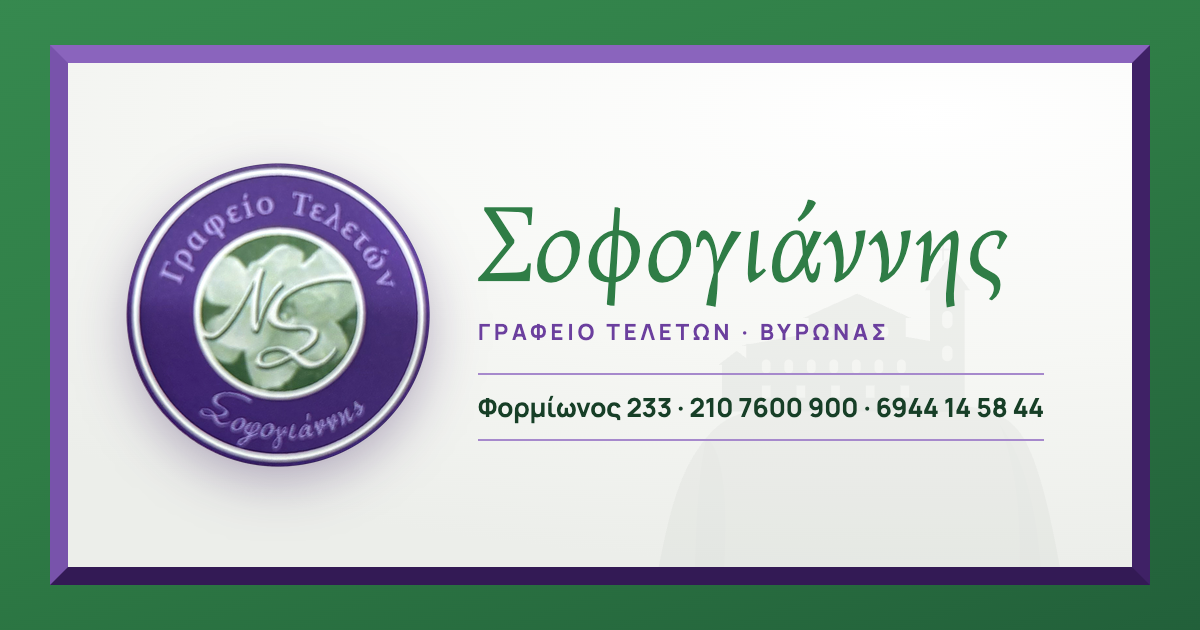
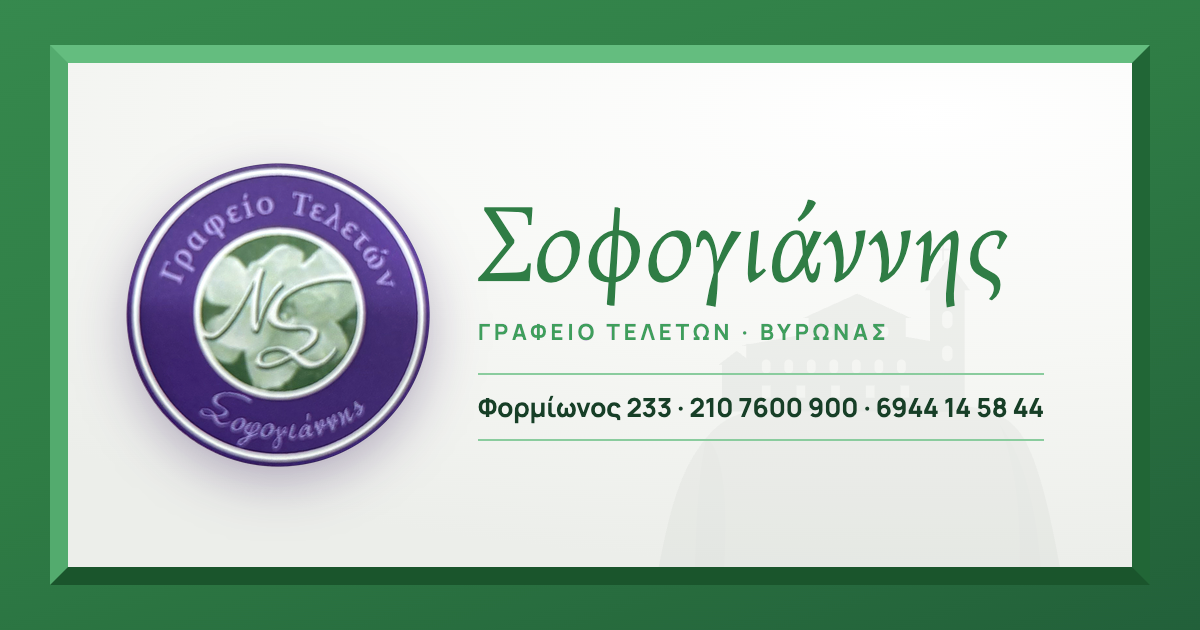
Όλα τα μωβ στοιχεία του θέματος σε πράσινο (κορνίζες, κουμπιά, λεζάντες, og-image) — το λογότυπο μένει ως έχει

diff --git a/css/style.css b/css/style.css
@@ -4,11 +4,11 @@
   --green-d: #22603a;
   --green-dd: #173f27;
   --green-l: #e7f1e9;
-  --purple: #6b3f9e;
-  --purple-d: #4e2a78;
-  --purple-dd: #36195a;
-  --purple-l: #a689cc;
-  --lilac: #f3eef9;
+  --purple: #3b8c55;
+  --purple-d: #276b3f;
+  --purple-dd: #184a2b;
+  --purple-l: #8cc39d;
+  --lilac: #eef6f0;
   --paper: #f6f7f4;
   --silver: #eceeea;
   --ink: #1d261f;
@@ -51,7 +51,7 @@ p { margin: 0 0 1.1em; }
 .btn:hover { transform: translateY(-1px); }
 .btn-primary { background: var(--green); color: #fff; box-shadow: 0 8px 20px -10px rgba(47, 125, 70, .8); }
 .btn-primary:hover { background: var(--green-d); }
-.btn-purple { background: var(--purple); color: #fff; box-shadow: 0 8px 20px -10px rgba(107, 63, 158, .8); }
+.btn-purple { background: var(--purple); color: #fff; box-shadow: 0 8px 20px -10px rgba(59, 140, 85, .8); }
 .btn-purple:hover { background: var(--purple-d); }
 .btn-ghost { border-color: var(--green); color: var(--green); background: transparent; }
 .btn-ghost:hover { background: var(--green); color: #fff; }
@@ -63,7 +63,7 @@ p { margin: 0 0 1.1em; }
 .btn-outline-light:hover { background: rgba(255, 255, 255, .12); border-color: #fff; }
 
 /* ---------------------------------------------------------------- topbar & header */
-.topbar { background: var(--purple-d); color: #e9e0f5; font-size: 13.5px; }
+.topbar { background: var(--purple-d); color: #e3f1e7; font-size: 13.5px; }
 .topbar .wrap { display: flex; justify-content: space-between; align-items: center; gap: 16px; min-height: 40px; }
 .topbar a { color: #fff; text-decoration: none; display: inline-flex; align-items: center; gap: 6px; }
 .topbar a:hover { text-decoration: underline; }
@@ -83,7 +83,7 @@ p { margin: 0 0 1.1em; }
 .brand-name { font-family: var(--serif); font-style: italic; font-size: 31px; color: var(--green); letter-spacing: .2px; }
 .brand-sub { font-size: 11.5px; letter-spacing: 1.6px; text-transform: uppercase; color: var(--purple); font-weight: 700; margin-top: 6px; }
 .brand.light .brand-name { color: #fff; }
-.brand.light .brand-sub { color: #cdb8ea; }
+.brand.light .brand-sub { color: #b9dcc3; }
 
 .nav { display: flex; align-items: center; gap: 4px; margin-left: auto; }
 .nav > a, .nav .dd > button {
@@ -124,13 +124,13 @@ p { margin: 0 0 1.1em; }
 
 /* ---------------------------------------------------------------- the card frame (bevel) */
 .bevel {
-  border: 16px solid; border-color: #8a64bd #3f2166 #331a55 #7853ab; /* ανάγλυφη κορνίζα όπως στην κάρτα */
+  border: 16px solid; border-color: #5aa872 #1d5532 #15402a #479a60; /* ανάγλυφη κορνίζα όπως στην κάρτα */
   background: var(--purple); box-shadow: 0 30px 60px -30px rgba(10, 30, 15, .6);
 }
 .panel {
   position: relative; overflow: hidden;
   background: radial-gradient(120% 90% at 80% 10%, #ffffff 0%, var(--paper) 55%, var(--silver) 100%);
-  box-shadow: inset 0 0 0 1px rgba(78, 42, 120, .35);
+  box-shadow: inset 0 0 0 1px rgba(39, 107, 63, .35);
 }
 .panel-art { position: absolute; right: -2%; bottom: -6%; width: min(620px, 62%); opacity: .2; pointer-events: none; filter: grayscale(1); }
 
@@ -151,13 +151,13 @@ p { margin: 0 0 1.1em; }
 .hero .lead { color: #3d4840; font-size: clamp(17px, 1.6vw, 19px); }
 .hero-rows { border-top: 1.5px solid var(--purple-l); border-bottom: 1.5px solid var(--purple-l); margin: 26px 0 28px; max-width: 560px; }
 .hero-rows > * { display: flex; align-items: center; gap: 12px; padding: 12px 4px; color: var(--green-dd); text-decoration: none; font-weight: 600; }
-.hero-rows > * + * { border-top: 1px solid rgba(107, 63, 158, .25); }
+.hero-rows > * + * { border-top: 1px solid rgba(59, 140, 85, .25); }
 .hero-rows svg { width: 20px; height: 20px; color: var(--purple); flex: none; }
 .row-owner span { font-family: var(--serif); font-size: 21px; font-weight: 700; color: var(--green-d); }
 .row-addr:hover span { text-decoration: underline; }
 .hero-actions { display: flex; flex-wrap: wrap; gap: 12px; align-items: center; }
 .hero-seal { display: grid; place-items: center; }
-.hero-seal img { width: min(340px, 100%); height: auto; filter: drop-shadow(0 18px 30px rgba(54, 25, 90, .35)); animation: seal 1.2s cubic-bezier(.2, .7, .2, 1) both; }
+.hero-seal img { width: min(340px, 100%); height: auto; filter: drop-shadow(0 18px 30px rgba(24, 74, 43, .35)); animation: seal 1.2s cubic-bezier(.2, .7, .2, 1) both; }
 @keyframes seal { from { opacity: 0; transform: scale(.85) rotate(-12deg); } to { opacity: 1; transform: none; } }
 
 /* ---------------------------------------------------------------- trust strip */
@@ -168,12 +168,12 @@ p { margin: 0 0 1.1em; }
 .trust-item .ic { width: 46px; height: 46px; border-radius: 50%; border: 1.5px solid rgba(255, 255, 255, .35); display: grid; place-items: center; flex: none; color: #c9f0d3; }
 .trust-item svg { width: 22px; height: 22px; }
 .trust-item strong { display: block; font-size: 15.5px; }
-.trust-item span { font-size: 13.5px; color: #cdbde6; }
+.trust-item span { font-size: 13.5px; color: #bfe0c8; }
 
 /* ---------------------------------------------------------------- sections */
 .section { padding: clamp(64px, 8vw, 110px) 0; }
 .section.alt { background: var(--paper); }
-.section.dark { background: var(--green-dd); color: #e3efe6; background-image: radial-gradient(80% 120% at 100% 0%, rgba(107, 63, 158, .35), transparent 60%); }
+.section.dark { background: var(--green-dd); color: #e3efe6; background-image: radial-gradient(80% 120% at 100% 0%, rgba(59, 140, 85, .35), transparent 60%); }
 .section.dark .lead { color: #bfd6c5; }
 .section-head { display: flex; justify-content: space-between; align-items: flex-end; gap: 30px 60px; margin-bottom: 44px; flex-wrap: wrap; }
 .section-head .lead { margin: 0; }
@@ -221,7 +221,7 @@ p { margin: 0 0 1.1em; }
 /* steps */
 .steps { list-style: none; padding: 0; margin: 0; display: grid; grid-template-columns: repeat(4, 1fr); gap: 22px; counter-reset: s; }
 .step { position: relative; padding: 30px 26px; border: 1px solid rgba(255, 255, 255, .14); border-radius: var(--radius); background: rgba(255, 255, 255, .04); }
-.step .n { display: grid; place-items: center; width: 50px; height: 50px; border-radius: 50%; background: var(--purple); color: #fff; font-family: var(--serif); font-size: 24px; margin-bottom: 18px; box-shadow: 0 0 0 5px rgba(107, 63, 158, .3); }
+.step .n { display: grid; place-items: center; width: 50px; height: 50px; border-radius: 50%; background: var(--purple); color: #fff; font-family: var(--serif); font-size: 24px; margin-bottom: 18px; box-shadow: 0 0 0 5px rgba(59, 140, 85, .3); }
 .step h3 { color: #fff; }
 .step p { color: #bfd6c5; font-size: 15.5px; margin: 0; }
 
@@ -250,13 +250,13 @@ p { margin: 0 0 1.1em; }
 .section.alt + .cta-wrap { background: linear-gradient(var(--paper) 50%, #fff 50%); }
 .cta-band {
   display: grid; grid-template-columns: auto 1fr auto; gap: 34px; align-items: center; padding: clamp(30px, 4vw, 48px) clamp(26px, 4vw, 52px);
-  background: linear-gradient(120deg, var(--purple-d), var(--purple) 60%, #7d52b3); color: #fff; border-radius: 20px; box-shadow: 0 30px 60px -30px rgba(54, 25, 90, .7);
+  background: linear-gradient(120deg, var(--purple-d), var(--purple) 60%, #43955c); color: #fff; border-radius: 20px; box-shadow: 0 30px 60px -30px rgba(24, 74, 43, .7);
   position: relative; overflow: hidden;
 }
 .cta-band::after { content: ""; position: absolute; right: -80px; top: -80px; width: 260px; height: 260px; border-radius: 50%; border: 30px solid rgba(255, 255, 255, .06); }
 .cta-emblem { width: 110px; height: 110px; border-radius: 50%; box-shadow: 0 0 0 6px rgba(255, 255, 255, .15); }
 .cta-band h2 { color: #fff; font-size: clamp(26px, 3vw, 34px); margin-bottom: 8px; }
-.cta-band p { margin: 0; color: #e3d7f3; }
+.cta-band p { margin: 0; color: #d9ecdf; }
 .cta-band .actions { display: flex; flex-direction: column; gap: 10px; position: relative; z-index: 1; }
 
 /* ---------------------------------------------------------------- inner pages */
@@ -330,7 +330,7 @@ p { margin: 0 0 1.1em; }
 /* guide */
 .guide-tabs { display: inline-flex; flex-wrap: wrap; gap: 6px; padding: 6px; border-radius: 999px; background: var(--lilac); margin-bottom: 30px; }
 .guide-tabs button { border: 0; background: none; font: 700 15px var(--sans); padding: 12px 22px; border-radius: 999px; cursor: pointer; color: var(--purple-d); }
-.guide-tabs button[aria-selected="true"] { background: var(--purple); color: #fff; box-shadow: 0 6px 14px -8px rgba(54, 25, 90, .8); }
+.guide-tabs button[aria-selected="true"] { background: var(--purple); color: #fff; box-shadow: 0 6px 14px -8px rgba(24, 74, 43, .8); }
 .timeline { list-style: none; margin: 0 0 40px; padding: 0; position: relative; }
 .timeline::before { content: ""; position: absolute; left: 23px; top: 10px; bottom: 10px; width: 2px; background: linear-gradient(var(--green), var(--purple)); }
 .timeline li { position: relative; display: flex; gap: 22px; padding: 0 0 26px; }
@@ -353,7 +353,7 @@ a.contact-card:hover { box-shadow: var(--shadow); transform: translateY(-2px); b
 .contact-card small { display: block; color: var(--muted); font-size: 13px; font-weight: 600; }
 .contact-card strong { display: block; font-size: 18px; word-break: break-word; }
 .contact-card.accent { background: var(--purple); border-color: var(--purple); color: #fff; }
-.contact-card.accent small { color: #dccdf0; }
+.contact-card.accent small { color: #cfe7d6; }
 .contact-card.accent .ic { background: rgba(255, 255, 255, .15); color: #fff; }
 .office { background: #fff; border-radius: var(--radius); overflow: hidden; border: 1px solid var(--line); box-shadow: var(--shadow); }
 .office .map { border: 0; border-radius: 0; box-shadow: none; aspect-ratio: 21 / 8; }
@@ -382,9 +382,9 @@ a.contact-card:hover { box-shadow: var(--shadow); transform: translateY(-2px); b
 .f-contact li { display: flex; gap: 10px; align-items: flex-start; }
 .f-contact svg { width: 18px; height: 18px; flex: none; margin-top: 4px; color: var(--purple-l); }
 .f-contact strong { color: #fff; }
-.footer-bottom { background: var(--purple-dd); font-size: 13.5px; color: #cdbde6; }
+.footer-bottom { background: var(--purple-dd); font-size: 13.5px; color: #bfe0c8; }
 .footer-bottom .wrap { display: flex; justify-content: space-between; align-items: center; gap: 14px; flex-wrap: wrap; min-height: 58px; padding-top: 12px; padding-bottom: 12px; }
-.footer-bottom .credit { color: #cdbde6; text-decoration: none; margin-left: auto; }
+.footer-bottom .credit { color: #bfe0c8; text-decoration: none; margin-left: auto; }
 .footer-bottom .credit strong { color: #fff; }
 .footer-bottom .credit:hover strong { text-decoration: underline; }
 .call-bar { display: none; }
@@ -479,7 +479,7 @@ a.contact-card:hover { box-shadow: var(--shadow); transform: translateY(-2px); b
 /* πορτρέτο υπευθύνου (αρχική) */
 .portrait { margin: 0; position: relative; max-width: 520px; justify-self: center; width: 100%; }
 .portrait-frame { background: var(--green); padding: clamp(12px, 1.6vw, 18px); border-radius: 4px; box-shadow: 0 30px 60px -30px rgba(10, 30, 15, .6); }
-.portrait-frame img { width: 100%; height: auto; aspect-ratio: 1 / 1; object-fit: cover; object-position: center 30%; border: 10px solid; border-color: #8a64bd #3f2166 #331a55 #7853ab; }
+.portrait-frame img { width: 100%; height: auto; aspect-ratio: 1 / 1; object-fit: cover; object-position: center 30%; border: 10px solid; border-color: #5aa872 #1d5532 #15402a #479a60; }
 .portrait figcaption {
   position: relative; display: flex; align-items: center; gap: 14px; margin: -34px 24px 0; padding: 14px 18px; background: #fff;
   border-radius: 12px; box-shadow: var(--shadow); border-left: 4px solid var(--purple);
@@ -495,7 +495,7 @@ a.contact-card:hover { box-shadow: var(--shadow); transform: translateY(-2px); b
 .hero-bg img { width: 100%; height: 100%; object-fit: cover; object-position: center 38%; }
 .hero::before {
   content: ""; position: absolute; inset: 0; z-index: 1;
-  background: linear-gradient(90deg, rgba(23, 63, 39, .88) 0%, rgba(23, 63, 39, .55) 42%, rgba(54, 25, 90, .12) 75%, rgba(54, 25, 90, .05) 100%);
+  background: linear-gradient(90deg, rgba(23, 63, 39, .88) 0%, rgba(23, 63, 39, .55) 42%, rgba(24, 74, 43, .12) 75%, rgba(24, 74, 43, .05) 100%);
 }
 .hero .wrap { position: relative; z-index: 2; }
 .hero .bevel { max-width: 620px; border-width: 12px; }
@@ -524,7 +524,7 @@ a.contact-card:hover { box-shadow: var(--shadow); transform: translateY(-2px); b
 .hero-bg img { object-position: center 20%; }
 /* hero v3: θολή φωτογραφία στο φόντο + ολόκληρη η πρόσοψη δεξιά */
 .hero-bg img { object-position: center 40%; filter: blur(16px) saturate(1.1); transform: scale(1.12); }
-.hero::before { background: linear-gradient(90deg, rgba(23, 63, 39, .9) 0%, rgba(23, 63, 39, .72) 50%, rgba(54, 25, 90, .55) 100%); }
+.hero::before { background: linear-gradient(90deg, rgba(23, 63, 39, .9) 0%, rgba(23, 63, 39, .72) 50%, rgba(24, 74, 43, .55) 100%); }
 .hero-grid { display: grid; grid-template-columns: minmax(0, 620px) minmax(0, 1fr); gap: clamp(30px, 5vw, 70px); align-items: center; }
 .hero-grid > .bevel { grid-column: 1; grid-row: 1; }
 .hero-shot { grid-column: 2; grid-row: 1; margin: 0; justify-self: center; width: min(100%, 420px); background: #fff; padding: 10px 10px 10px; border-radius: 4px; box-shadow: 0 30px 60px -20px rgba(0, 0, 0, .55); transform: rotate(1.5deg); }
@@ -537,7 +537,7 @@ a.contact-card:hover { box-shadow: var(--shadow); transform: translateY(-2px); b
 
 /* φωτογραφίες μέσα στο κείμενο υπηρεσιών */
 .prose .photo { margin: 30px 0; background: var(--green); padding: 10px; border-radius: 4px; box-shadow: 0 24px 50px -28px rgba(10, 30, 15, .6); }
-.prose .photo img { width: 100%; height: auto; aspect-ratio: 4 / 3; object-fit: cover; border: 6px solid; border-color: #8a64bd #3f2166 #331a55 #7853ab; }
+.prose .photo img { width: 100%; height: auto; aspect-ratio: 4 / 3; object-fit: cover; border: 6px solid; border-color: #5aa872 #1d5532 #15402a #479a60; }
 
 /* carousel φωτογραφιών */
 .carousel { position: relative; margin: 22px 0 34px; }
@@ -545,10 +545,10 @@ a.contact-card:hover { box-shadow: var(--shadow); transform: translateY(-2px); b
 .car-track::-webkit-scrollbar { display: none; }
 .car-track:focus-visible { outline: 3px solid var(--purple-l); }
 .slide { flex: 0 0 calc((100% - 28px) / 3); margin: 0; scroll-snap-align: start; background: var(--green); padding: 6px; border-radius: 4px; }
-.slide img { width: 100%; aspect-ratio: 3 / 4; object-fit: cover; display: block; border: 4px solid; border-color: #8a64bd #3f2166 #331a55 #7853ab; }
+.slide img { width: 100%; aspect-ratio: 3 / 4; object-fit: cover; display: block; border: 4px solid; border-color: #5aa872 #1d5532 #15402a #479a60; }
 .car-btn {
   position: absolute; top: calc(50% - 18px); transform: translateY(-50%); width: 48px; height: 48px; border-radius: 50%; border: 0; cursor: pointer;
-  background: #fff; color: var(--purple); box-shadow: 0 8px 22px -8px rgba(20, 10, 40, .5); display: grid; place-items: center; transition: background .2s, color .2s, opacity .2s;
+  background: #fff; color: var(--purple); box-shadow: 0 8px 22px -8px rgba(10, 30, 15, .5); display: grid; place-items: center; transition: background .2s, color .2s, opacity .2s;
 }
 .car-btn svg { width: 22px; height: 22px; }
 .car-btn:hover { background: var(--purple); color: #fff; }
@@ -595,7 +595,7 @@ a.contact-card:hover { box-shadow: var(--shadow); transform: translateY(-2px); b
 .music:hover .music-player, .music:focus-within .music-player { opacity: 1; transform: none; pointer-events: auto; }
 .music-player iframe { display: block; width: 100%; height: 100%; }
 .music-btn { display: inline-flex; align-items: center; gap: 8px; min-height: 44px; padding: 0 16px 0 14px; border-radius: 999px; border: 0; cursor: pointer;
-  background: var(--purple); color: #fff; font: inherit; font-weight: 700; font-size: 14px; box-shadow: 0 8px 20px -10px rgba(78,42,120,.9); }
+  background: var(--purple); color: #fff; font: inherit; font-weight: 700; font-size: 14px; box-shadow: 0 8px 20px -10px rgba(39, 107, 63,.9); }
 .music-btn:hover { background: var(--purple-d); }
 .music-btn svg { width: 18px; height: 18px; }
 .music-eq { display: none; align-items: flex-end; gap: 2px; height: 14px; }

diff --git a/404.html b/404.html
@@ -30,7 +30,7 @@
   <link rel="preconnect" href="https://fonts.googleapis.com">
   <link rel="preconnect" href="https://fonts.gstatic.com" crossorigin>
   <link href="https://fonts.googleapis.com/css2?family=Bona+Nova:ital,wght@0,400;0,700;1,400&family=Manrope:wght@400;500;600;700&display=swap" rel="stylesheet">
-  <link rel="stylesheet" href="/css/style.css?v=9b2d4b64">
+  <link rel="stylesheet" href="/css/style.css?v=5e1881ba">
   <script>document.documentElement.classList.add("js")</script>
   <script type="application/ld+json">
 {
@@ -350,6 +350,6 @@
   <a class="primary" href="tel:+302107600900"><svg viewBox="0 0 24 24" fill="none" stroke="currentColor" stroke-width="1.6" stroke-linecap="round" stroke-linejoin="round" aria-hidden="true"><path d="M5 3.5h3.2l1.6 4.2-2.1 1.4a11.5 11.5 0 0 0 7.2 7.2l1.4-2.1 4.2 1.6V19a1.8 1.8 0 0 1-2 1.8A16.5 16.5 0 0 1 3.2 5.5 1.8 1.8 0 0 1 5 3.5z"/></svg>210 7600 900</a>
   <a href="tel:+306944145844"><svg viewBox="0 0 24 24" fill="none" stroke="currentColor" stroke-width="1.6" stroke-linecap="round" stroke-linejoin="round" aria-hidden="true"><rect x="6.5" y="2.5" width="11" height="19" rx="2.5"/><path d="M10.5 18.5h3"/></svg>Κινητό</a>
 </div>
-<script src="/js/main.js?v=9b2d4b64" defer></script>
+<script src="/js/main.js?v=5e1881ba" defer></script>
 </body>
 </html>

diff --git a/ekthesiakos-xoros/index.html b/ekthesiakos-xoros/index.html
@@ -30,7 +30,7 @@
   <link rel="preconnect" href="https://fonts.googleapis.com">
   <link rel="preconnect" href="https://fonts.gstatic.com" crossorigin>
   <link href="https://fonts.googleapis.com/css2?family=Bona+Nova:ital,wght@0,400;0,700;1,400&family=Manrope:wght@400;500;600;700&display=swap" rel="stylesheet">
-  <link rel="stylesheet" href="/css/style.css?v=9b2d4b64">
+  <link rel="stylesheet" href="/css/style.css?v=5e1881ba">
   <script>document.documentElement.classList.add("js")</script>
   <script type="application/ld+json">
 {
@@ -495,6 +495,6 @@
   <a class="primary" href="tel:+302107600900"><svg viewBox="0 0 24 24" fill="none" stroke="currentColor" stroke-width="1.6" stroke-linecap="round" stroke-linejoin="round" aria-hidden="true"><path d="M5 3.5h3.2l1.6 4.2-2.1 1.4a11.5 11.5 0 0 0 7.2 7.2l1.4-2.1 4.2 1.6V19a1.8 1.8 0 0 1-2 1.8A16.5 16.5 0 0 1 3.2 5.5 1.8 1.8 0 0 1 5 3.5z"/></svg>210 7600 900</a>
   <a href="tel:+306944145844"><svg viewBox="0 0 24 24" fill="none" stroke="currentColor" stroke-width="1.6" stroke-linecap="round" stroke-linejoin="round" aria-hidden="true"><rect x="6.5" y="2.5" width="11" height="19" rx="2.5"/><path d="M10.5 18.5h3"/></svg>Κινητό</a>
 </div>
-<script src="/js/main.js?v=9b2d4b64" defer></script>
+<script src="/js/main.js?v=5e1881ba" defer></script>
 </body>
 </html>

diff --git a/epikoinonia/index.html b/epikoinonia/index.html
@@ -30,7 +30,7 @@
   <link rel="preconnect" href="https://fonts.googleapis.com">
   <link rel="preconnect" href="https://fonts.gstatic.com" crossorigin>
   <link href="https://fonts.googleapis.com/css2?family=Bona+Nova:ital,wght@0,400;0,700;1,400&family=Manrope:wght@400;500;600;700&display=swap" rel="stylesheet">
-  <link rel="stylesheet" href="/css/style.css?v=9b2d4b64">
+  <link rel="stylesheet" href="/css/style.css?v=5e1881ba">
   <script>document.documentElement.classList.add("js")</script>
   <script type="application/ld+json">
 {
@@ -419,6 +419,6 @@
   <a class="primary" href="tel:+302107600900"><svg viewBox="0 0 24 24" fill="none" stroke="currentColor" stroke-width="1.6" stroke-linecap="round" stroke-linejoin="round" aria-hidden="true"><path d="M5 3.5h3.2l1.6 4.2-2.1 1.4a11.5 11.5 0 0 0 7.2 7.2l1.4-2.1 4.2 1.6V19a1.8 1.8 0 0 1-2 1.8A16.5 16.5 0 0 1 3.2 5.5 1.8 1.8 0 0 1 5 3.5z"/></svg>210 7600 900</a>
   <a href="tel:+306944145844"><svg viewBox="0 0 24 24" fill="none" stroke="currentColor" stroke-width="1.6" stroke-linecap="round" stroke-linejoin="round" aria-hidden="true"><rect x="6.5" y="2.5" width="11" height="19" rx="2.5"/><path d="M10.5 18.5h3"/></svg>Κινητό</a>
 </div>
-<script src="/js/main.js?v=9b2d4b64" defer></script>
+<script src="/js/main.js?v=5e1881ba" defer></script>
 </body>
 </html>

diff --git a/index.html b/index.html
@@ -30,7 +30,7 @@
   <link rel="preconnect" href="https://fonts.googleapis.com">
   <link rel="preconnect" href="https://fonts.gstatic.com" crossorigin>
   <link href="https://fonts.googleapis.com/css2?family=Bona+Nova:ital,wght@0,400;0,700;1,400&family=Manrope:wght@400;500;600;700&display=swap" rel="stylesheet">
-  <link rel="stylesheet" href="/css/style.css?v=9b2d4b64">
+  <link rel="stylesheet" href="/css/style.css?v=5e1881ba">
   <script>document.documentElement.classList.add("js")</script>
   <script type="application/ld+json">
 {
@@ -536,6 +536,6 @@
   <a class="primary" href="tel:+302107600900"><svg viewBox="0 0 24 24" fill="none" stroke="currentColor" stroke-width="1.6" stroke-linecap="round" stroke-linejoin="round" aria-hidden="true"><path d="M5 3.5h3.2l1.6 4.2-2.1 1.4a11.5 11.5 0 0 0 7.2 7.2l1.4-2.1 4.2 1.6V19a1.8 1.8 0 0 1-2 1.8A16.5 16.5 0 0 1 3.2 5.5 1.8 1.8 0 0 1 5 3.5z"/></svg>210 7600 900</a>
   <a href="tel:+306944145844"><svg viewBox="0 0 24 24" fill="none" stroke="currentColor" stroke-width="1.6" stroke-linecap="round" stroke-linejoin="round" aria-hidden="true"><rect x="6.5" y="2.5" width="11" height="19" rx="2.5"/><path d="M10.5 18.5h3"/></svg>Κινητό</a>
 </div>
-<script src="/js/main.js?v=9b2d4b64" defer></script>
+<script src="/js/main.js?v=5e1881ba" defer></script>
 </body>
 </html>

diff --git a/ti-kano-tora/index.html b/ti-kano-tora/index.html
@@ -30,7 +30,7 @@
   <link rel="preconnect" href="https://fonts.googleapis.com">
   <link rel="preconnect" href="https://fonts.gstatic.com" crossorigin>
   <link href="https://fonts.googleapis.com/css2?family=Bona+Nova:ital,wght@0,400;0,700;1,400&family=Manrope:wght@400;500;600;700&display=swap" rel="stylesheet">
-  <link rel="stylesheet" href="/css/style.css?v=9b2d4b64">
+  <link rel="stylesheet" href="/css/style.css?v=5e1881ba">
   <script>document.documentElement.classList.add("js")</script>
   <script type="application/ld+json">
 {
@@ -481,6 +481,6 @@
   <a class="primary" href="tel:+302107600900"><svg viewBox="0 0 24 24" fill="none" stroke="currentColor" stroke-width="1.6" stroke-linecap="round" stroke-linejoin="round" aria-hidden="true"><path d="M5 3.5h3.2l1.6 4.2-2.1 1.4a11.5 11.5 0 0 0 7.2 7.2l1.4-2.1 4.2 1.6V19a1.8 1.8 0 0 1-2 1.8A16.5 16.5 0 0 1 3.2 5.5 1.8 1.8 0 0 1 5 3.5z"/></svg>210 7600 900</a>
   <a href="tel:+306944145844"><svg viewBox="0 0 24 24" fill="none" stroke="currentColor" stroke-width="1.6" stroke-linecap="round" stroke-linejoin="round" aria-hidden="true"><rect x="6.5" y="2.5" width="11" height="19" rx="2.5"/><path d="M10.5 18.5h3"/></svg>Κινητό</a>
 </div>
-<script src="/js/main.js?v=9b2d4b64" defer></script>
+<script src="/js/main.js?v=5e1881ba" defer></script>
 </body>
 </html>

diff --git a/to-grafeio/index.html b/to-grafeio/index.html
@@ -30,7 +30,7 @@
   <link rel="preconnect" href="https://fonts.googleapis.com">
   <link rel="preconnect" href="https://fonts.gstatic.com" crossorigin>
   <link href="https://fonts.googleapis.com/css2?family=Bona+Nova:ital,wght@0,400;0,700;1,400&family=Manrope:wght@400;500;600;700&display=swap" rel="stylesheet">
-  <link rel="stylesheet" href="/css/style.css?v=9b2d4b64">
+  <link rel="stylesheet" href="/css/style.css?v=5e1881ba">
   <script>document.documentElement.classList.add("js")</script>
   <script type="application/ld+json">
 {
@@ -454,6 +454,6 @@
   <a class="primary" href="tel:+302107600900"><svg viewBox="0 0 24 24" fill="none" stroke="currentColor" stroke-width="1.6" stroke-linecap="round" stroke-linejoin="round" aria-hidden="true"><path d="M5 3.5h3.2l1.6 4.2-2.1 1.4a11.5 11.5 0 0 0 7.2 7.2l1.4-2.1 4.2 1.6V19a1.8 1.8 0 0 1-2 1.8A16.5 16.5 0 0 1 3.2 5.5 1.8 1.8 0 0 1 5 3.5z"/></svg>210 7600 900</a>
   <a href="tel:+306944145844"><svg viewBox="0 0 24 24" fill="none" stroke="currentColor" stroke-width="1.6" stroke-linecap="round" stroke-linejoin="round" aria-hidden="true"><rect x="6.5" y="2.5" width="11" height="19" rx="2.5"/><path d="M10.5 18.5h3"/></svg>Κινητό</a>
 </div>
-<script src="/js/main.js?v=9b2d4b64" defer></script>
+<script src="/js/main.js?v=5e1881ba" defer></script>
 </body>
 </html>

diff --git a/ypiresies/anthostolismos/index.html b/ypiresies/anthostolismos/index.html
@@ -30,7 +30,7 @@
   <link rel="preconnect" href="https://fonts.googleapis.com">
   <link rel="preconnect" href="https://fonts.gstatic.com" crossorigin>
   <link href="https://fonts.googleapis.com/css2?family=Bona+Nova:ital,wght@0,400;0,700;1,400&family=Manrope:wght@400;500;600;700&display=swap" rel="stylesheet">
-  <link rel="stylesheet" href="/css/style.css?v=9b2d4b64">
+  <link rel="stylesheet" href="/css/style.css?v=5e1881ba">
   <script>document.documentElement.classList.add("js")</script>
   <script type="application/ld+json">
 {
@@ -508,6 +508,6 @@
   <a class="primary" href="tel:+302107600900"><svg viewBox="0 0 24 24" fill="none" stroke="currentColor" stroke-width="1.6" stroke-linecap="round" stroke-linejoin="round" aria-hidden="true"><path d="M5 3.5h3.2l1.6 4.2-2.1 1.4a11.5 11.5 0 0 0 7.2 7.2l1.4-2.1 4.2 1.6V19a1.8 1.8 0 0 1-2 1.8A16.5 16.5 0 0 1 3.2 5.5 1.8 1.8 0 0 1 5 3.5z"/></svg>210 7600 900</a>
   <a href="tel:+306944145844"><svg viewBox="0 0 24 24" fill="none" stroke="currentColor" stroke-width="1.6" stroke-linecap="round" stroke-linejoin="round" aria-hidden="true"><rect x="6.5" y="2.5" width="11" height="19" rx="2.5"/><path d="M10.5 18.5h3"/></svg>Κινητό</a>
 </div>
-<script src="/js/main.js?v=9b2d4b64" defer></script>
+<script src="/js/main.js?v=5e1881ba" defer></script>
 </body>
 </html>

diff --git a/ypiresies/apotefroseis/index.html b/ypiresies/apotefroseis/index.html
@@ -30,7 +30,7 @@
   <link rel="preconnect" href="https://fonts.googleapis.com">
   <link rel="preconnect" href="https://fonts.gstatic.com" crossorigin>
   <link href="https://fonts.googleapis.com/css2?family=Bona+Nova:ital,wght@0,400;0,700;1,400&family=Manrope:wght@400;500;600;700&display=swap" rel="stylesheet">
-  <link rel="stylesheet" href="/css/style.css?v=9b2d4b64">
+  <link rel="stylesheet" href="/css/style.css?v=5e1881ba">
   <script>document.documentElement.classList.add("js")</script>
   <script type="application/ld+json">
 {
@@ -501,6 +501,6 @@
   <a class="primary" href="tel:+302107600900"><svg viewBox="0 0 24 24" fill="none" stroke="currentColor" stroke-width="1.6" stroke-linecap="round" stroke-linejoin="round" aria-hidden="true"><path d="M5 3.5h3.2l1.6 4.2-2.1 1.4a11.5 11.5 0 0 0 7.2 7.2l1.4-2.1 4.2 1.6V19a1.8 1.8 0 0 1-2 1.8A16.5 16.5 0 0 1 3.2 5.5 1.8 1.8 0 0 1 5 3.5z"/></svg>210 7600 900</a>
   <a href="tel:+306944145844"><svg viewBox="0 0 24 24" fill="none" stroke="currentColor" stroke-width="1.6" stroke-linecap="round" stroke-linejoin="round" aria-hidden="true"><rect x="6.5" y="2.5" width="11" height="19" rx="2.5"/><path d="M10.5 18.5h3"/></svg>Κινητό</a>
 </div>
-<script src="/js/main.js?v=9b2d4b64" defer></script>
+<script src="/js/main.js?v=5e1881ba" defer></script>
 </body>
 </html>

diff --git a/ypiresies/diadikasies/index.html b/ypiresies/diadikasies/index.html
@@ -30,7 +30,7 @@
   <link rel="preconnect" href="https://fonts.googleapis.com">
   <link rel="preconnect" href="https://fonts.gstatic.com" crossorigin>
   <link href="https://fonts.googleapis.com/css2?family=Bona+Nova:ital,wght@0,400;0,700;1,400&family=Manrope:wght@400;500;600;700&display=swap" rel="stylesheet">
-  <link rel="stylesheet" href="/css/style.css?v=9b2d4b64">
+  <link rel="stylesheet" href="/css/style.css?v=5e1881ba">
   <script>document.documentElement.classList.add("js")</script>
   <script type="application/ld+json">
 {
@@ -501,6 +501,6 @@
   <a class="primary" href="tel:+302107600900"><svg viewBox="0 0 24 24" fill="none" stroke="currentColor" stroke-width="1.6" stroke-linecap="round" stroke-linejoin="round" aria-hidden="true"><path d="M5 3.5h3.2l1.6 4.2-2.1 1.4a11.5 11.5 0 0 0 7.2 7.2l1.4-2.1 4.2 1.6V19a1.8 1.8 0 0 1-2 1.8A16.5 16.5 0 0 1 3.2 5.5 1.8 1.8 0 0 1 5 3.5z"/></svg>210 7600 900</a>
   <a href="tel:+306944145844"><svg viewBox="0 0 24 24" fill="none" stroke="currentColor" stroke-width="1.6" stroke-linecap="round" stroke-linejoin="round" aria-hidden="true"><rect x="6.5" y="2.5" width="11" height="19" rx="2.5"/><path d="M10.5 18.5h3"/></svg>Κινητό</a>
 </div>
-<script src="/js/main.js?v=9b2d4b64" defer></script>
+<script src="/js/main.js?v=5e1881ba" defer></script>
 </body>
 </html>

diff --git a/ypiresies/index.html b/ypiresies/index.html
@@ -30,7 +30,7 @@
   <link rel="preconnect" href="https://fonts.googleapis.com">
   <link rel="preconnect" href="https://fonts.gstatic.com" crossorigin>
   <link href="https://fonts.googleapis.com/css2?family=Bona+Nova:ital,wght@0,400;0,700;1,400&family=Manrope:wght@400;500;600;700&display=swap" rel="stylesheet">
-  <link rel="stylesheet" href="/css/style.css?v=9b2d4b64">
+  <link rel="stylesheet" href="/css/style.css?v=5e1881ba">
   <script>document.documentElement.classList.add("js")</script>
   <script type="application/ld+json">
 {
@@ -484,6 +484,6 @@
   <a class="primary" href="tel:+302107600900"><svg viewBox="0 0 24 24" fill="none" stroke="currentColor" stroke-width="1.6" stroke-linecap="round" stroke-linejoin="round" aria-hidden="true"><path d="M5 3.5h3.2l1.6 4.2-2.1 1.4a11.5 11.5 0 0 0 7.2 7.2l1.4-2.1 4.2 1.6V19a1.8 1.8 0 0 1-2 1.8A16.5 16.5 0 0 1 3.2 5.5 1.8 1.8 0 0 1 5 3.5z"/></svg>210 7600 900</a>
   <a href="tel:+306944145844"><svg viewBox="0 0 24 24" fill="none" stroke="currentColor" stroke-width="1.6" stroke-linecap="round" stroke-linejoin="round" aria-hidden="true"><rect x="6.5" y="2.5" width="11" height="19" rx="2.5"/><path d="M10.5 18.5h3"/></svg>Κινητό</a>
 </div>
-<script src="/js/main.js?v=9b2d4b64" defer></script>
+<script src="/js/main.js?v=5e1881ba" defer></script>
 </body>
 </html>

diff --git a/ypiresies/kideies/index.html b/ypiresies/kideies/index.html
@@ -30,7 +30,7 @@
   <link rel="preconnect" href="https://fonts.googleapis.com">
   <link rel="preconnect" href="https://fonts.gstatic.com" crossorigin>
   <link href="https://fonts.googleapis.com/css2?family=Bona+Nova:ital,wght@0,400;0,700;1,400&family=Manrope:wght@400;500;600;700&display=swap" rel="stylesheet">
-  <link rel="stylesheet" href="/css/style.css?v=9b2d4b64">
+  <link rel="stylesheet" href="/css/style.css?v=5e1881ba">
   <script>document.documentElement.classList.add("js")</script>
   <script type="application/ld+json">
 {
@@ -511,6 +511,6 @@
   <a class="primary" href="tel:+302107600900"><svg viewBox="0 0 24 24" fill="none" stroke="currentColor" stroke-width="1.6" stroke-linecap="round" stroke-linejoin="round" aria-hidden="true"><path d="M5 3.5h3.2l1.6 4.2-2.1 1.4a11.5 11.5 0 0 0 7.2 7.2l1.4-2.1 4.2 1.6V19a1.8 1.8 0 0 1-2 1.8A16.5 16.5 0 0 1 3.2 5.5 1.8 1.8 0 0 1 5 3.5z"/></svg>210 7600 900</a>
   <a href="tel:+306944145844"><svg viewBox="0 0 24 24" fill="none" stroke="currentColor" stroke-width="1.6" stroke-linecap="round" stroke-linejoin="round" aria-hidden="true"><rect x="6.5" y="2.5" width="11" height="19" rx="2.5"/><path d="M10.5 18.5h3"/></svg>Κινητό</a>
 </div>
-<script src="/js/main.js?v=9b2d4b64" defer></script>
+<script src="/js/main.js?v=5e1881ba" defer></script>
 </body>
 </html>
